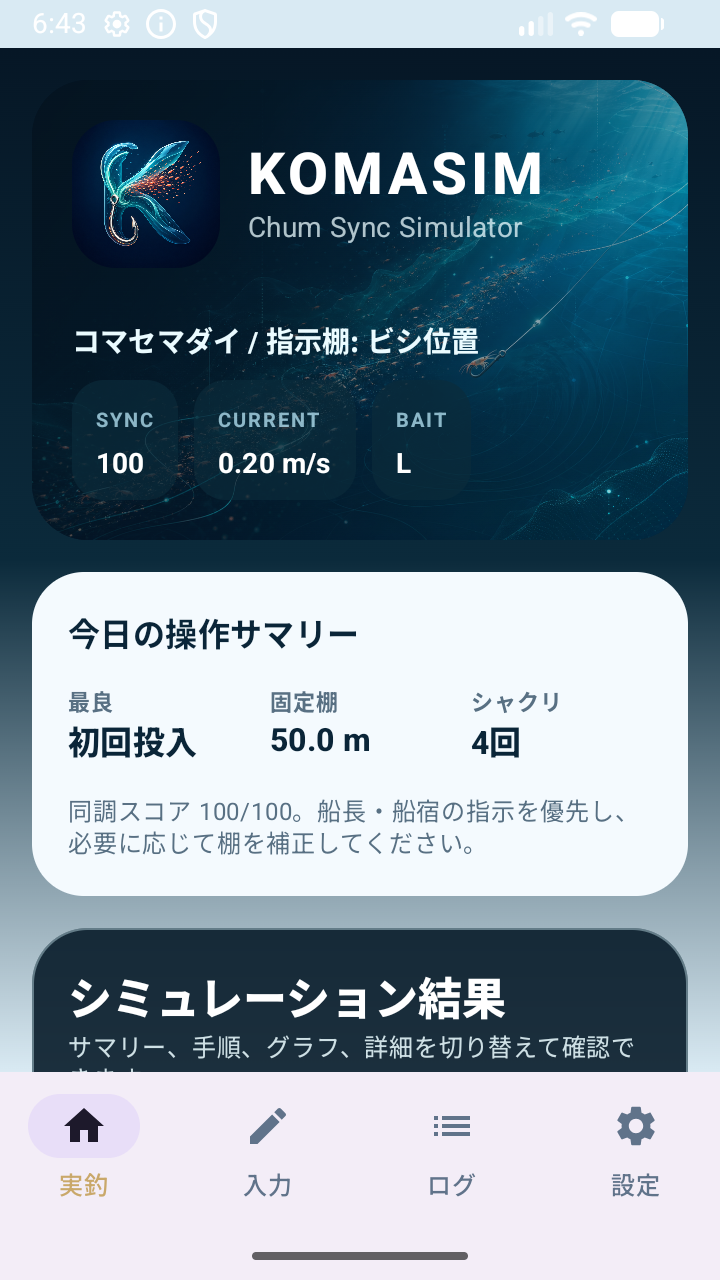
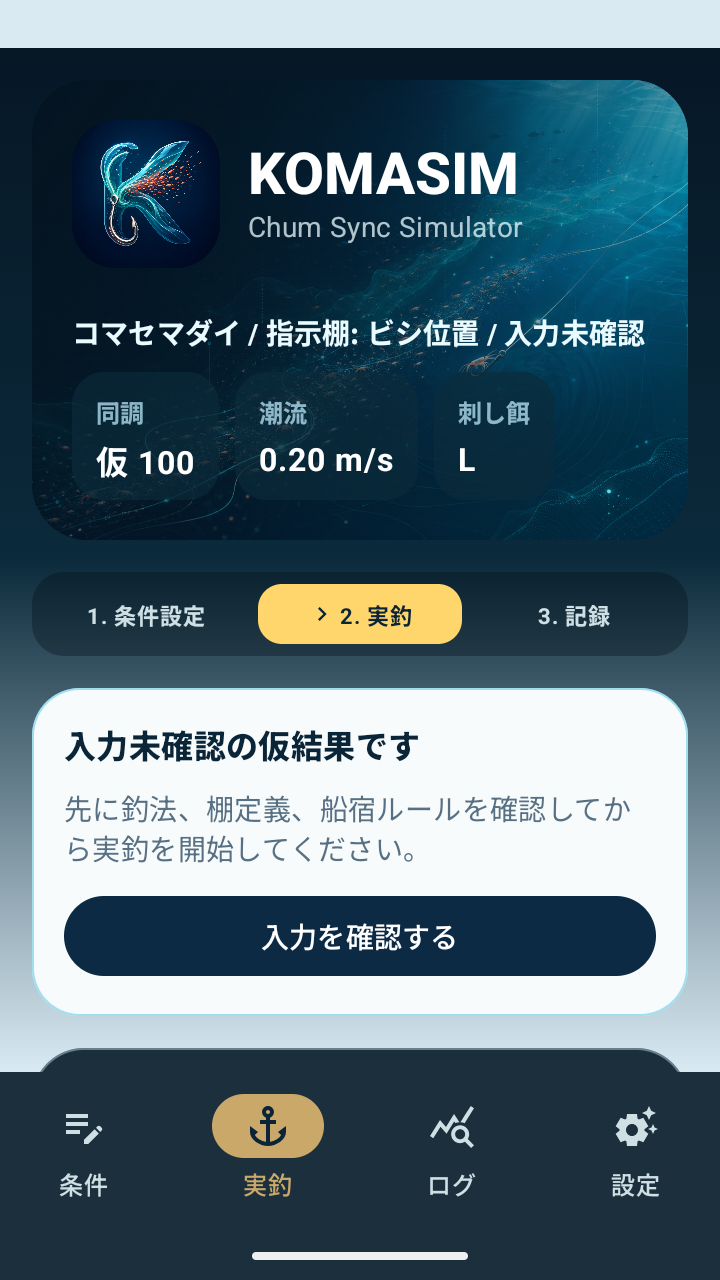
Update KomaSim web page for latest UI
Refresh the KomaSim GitHub Pages content with latest app screenshots, a four-screen overview image, and more detailed UI/input explanations.

diff --git a/privacy_policy.html b/privacy_policy.html
@@ -11,13 +11,13 @@
     <meta property="og:description" content="コマセと付け餌の同調を見える化し、船上で次の一投を考えるためのシミュレーター。">
     <meta property="og:type" content="website">
     <meta property="og:url" content="https://tws19820925.github.io/KOMASimulator/privacy_policy.html">
-    <meta property="og:image" content="https://tws19820925.github.io/KOMASimulator/assets/promo/komasim-hero-background.png">
-    <meta property="og:image:width" content="1600">
-    <meta property="og:image:height" content="900">
-    <meta property="og:image:alt" content="KomaSimの海中ヒーロー画像。コマセと仕掛けの流れを想起させるビジュアル。">
+    <meta property="og:image" content="https://tws19820925.github.io/KOMASimulator/assets/promo/komasim-overview-1200x630.png">
+    <meta property="og:image:width" content="1200">
+    <meta property="og:image:height" content="630">
+    <meta property="og:image:alt" content="KomaSimの全体イメージ。条件設定、実釣、ログ、設定の4画面を並べて表示。">
     <meta property="og:locale" content="ja_JP">
     <meta name="twitter:card" content="summary_large_image">
-    <meta name="twitter:image" content="https://tws19820925.github.io/KOMASimulator/assets/promo/komasim-hero-background.png">
+    <meta name="twitter:image" content="https://tws19820925.github.io/KOMASimulator/assets/promo/komasim-overview-1200x630.png">
     <meta name="theme-color" content="#0b5267">
     <link rel="icon" href="assets/promo/komasim-logo-mark.png">
     <link rel="apple-touch-icon" href="assets/promo/komasim-logo-mark.png">
@@ -30,7 +30,7 @@
       "applicationCategory": "SportsApplication",
       "operatingSystem": "Android",
       "description": "ビシ釣りのコマセ、付け餌、仕掛けの沈下と横流れをシミュレーションし、次の一投を考えるためのAndroidアプリ。",
-      "image": "https://tws19820925.github.io/KOMASimulator/assets/promo/komasim-hero-background.png",
+      "image": "https://tws19820925.github.io/KOMASimulator/assets/promo/komasim-overview-1200x630.png",
       "url": "https://tws19820925.github.io/KOMASimulator/privacy_policy.html",
       "author": {
         "@type": "Organization",
@@ -184,7 +184,7 @@
             align-items: end;
             background:
                 linear-gradient(90deg, rgba(5, 24, 39, 0.88) 0%, rgba(5, 24, 39, 0.74) 43%, rgba(5, 24, 39, 0.30) 100%),
-                url("assets/promo/komasim-hero-background.png") center / cover no-repeat;
+                url("assets/promo/komasim-overview-1200x630.png") center / cover no-repeat;
             color: #ffffff;
         }
 
@@ -310,8 +310,22 @@
             font-size: 16px;
         }
 
+        .overview-panel {
+            margin-top: 28px;
+            border: 1px solid var(--line);
+            border-radius: 8px;
+            background: #ffffff;
+            box-shadow: var(--shadow);
+            overflow: hidden;
+        }
+
+        .overview-panel img {
+            width: 100%;
+        }
+
         .feature-grid,
-        .usecase-grid {
+        .usecase-grid,
+        .input-grid {
             display: grid;
             grid-template-columns: repeat(3, minmax(0, 1fr));
             gap: 14px;
@@ -319,6 +333,7 @@
 
         .feature-card,
         .usecase-card,
+        .input-card,
         .screen-card,
         .policy-block {
             border: 1px solid var(--line);
@@ -328,7 +343,8 @@
         }
 
         .feature-card,
-        .usecase-card {
+        .usecase-card,
+        .input-card {
             padding: 18px;
         }
 
@@ -346,14 +362,17 @@
         }
 
         .feature-card h3,
-        .usecase-card h3 {
+        .usecase-card h3,
+        .input-card h3 {
             margin: 0 0 8px;
             font-size: 19px;
             line-height: 1.45;
         }
 
         .feature-card p,
-        .usecase-card p {
+        .usecase-card p,
+        .input-card p,
+        .input-card li {
             color: var(--muted);
             font-size: 15px;
         }
@@ -526,6 +545,7 @@
 
             .trust-inner,
             .feature-grid,
+            .input-grid,
             .usecase-grid {
                 grid-template-columns: 1fr;
             }
@@ -583,6 +603,7 @@
         <nav class="nav" aria-label="ページ内ナビゲーション">
             <a href="#features">特徴</a>
             <a href="#screens">画面</a>
+            <a href="#inputs">操作入力</a>
             <a href="#usecases">使い方</a>
             <a href="#faq">FAQ</a>
             <a href="#privacy">プライバシーポリシー</a>
@@ -596,12 +617,13 @@
             <p class="eyebrow">ビシ釣り・コマセワーク判断支援アプリ</p>
             <h1 id="hero-title">KomaSim</h1>
             <p class="hero-lead">
-                コマセ、付け餌、仕掛けの沈下と横流れをシミュレーションし、棚到達の待ち時間、同調スコア、次の一投で確認するポイントを船上で読みやすく整理します。
+                条件設定、実釣、釣果ログ、設定を切り替えながら、コマセ、付け餌、仕掛けの沈下と横流れを船上で読みやすく整理します。
             </p>
             <div class="hero-actions">
                 <a class="button primary" href="#privacy">プライバシーポリシー</a>
                 <a class="button secondary" href="#features">機能を見る</a>
                 <a class="button secondary" href="#screens">画面を見る</a>
+                <a class="button secondary" href="#inputs">入力項目を見る</a>
             </div>
         </div>
     </section>
@@ -620,6 +642,19 @@
                 <strong>共有はユーザー操作</strong>
                 <span>結果共有やバックアップ共有は、ユーザーが選んだ時だけ行います。</span>
             </div>
+        </div>
+    </section>
+
+    <section class="section" aria-labelledby="overview-title">
+        <div class="wrap">
+            <div class="section-head">
+                <p class="section-kicker">Overview</p>
+                <h2 id="overview-title">4つの画面で、次の一投を整える。</h2>
+                <p>条件設定、実釣、ログ、設定を下部ナビで切り替えます。最新UIでは実釣/入力タブのカードが重ならず、船上で必要な判断材料を順に確認できます。</p>
+            </div>
+            <figure class="overview-panel">
+                <img src="assets/promo/komasim-overview-1200x630.png" width="1200" height="630" alt="KomaSimの全体イメージ。条件設定、実釣、ログ、設定の4画面を並べて表示。">
+            </figure>
         </div>
     </section>
 
@@ -669,27 +704,111 @@
         <div class="wrap">
             <div class="section-head">
                 <p class="section-kicker">Screens</p>
-                <h2 id="screens-title">船上で見る画面と、仕掛けを整える画面。</h2>
-                <p>実釣タブでは次アクションとタイマーを優先し、入力タブでは棚・潮・針・校正値を整理して扱います。</p>
+                <h2 id="screens-title">画面ごとの役割を、操作単位で確認。</h2>
+                <p>DRIFIXと同じ粒度で、KomaSimの主要UIを「何を見る画面か」「何を入力・判断するか」に分けて説明します。</p>
             </div>
             <div class="screens-grid">
                 <article class="screen-card">
                     <figure>
-                        <img src="assets/screenshots/field-overview-360dp.png" width="720" height="1280" loading="lazy" alt="KomaSimの実釣画面。操作サマリーとシミュレーション結果が表示されている。">
+                        <img src="assets/screenshots/input-overview-360dp.png" width="720" height="1280" alt="KomaSimの条件設定画面。出船前チェック、ステップ表示、入力条件カードが表示されている。">
                     </figure>
                     <div class="screen-copy">
-                        <h3>実釣タブ</h3>
-                        <p>次の一手、棚、警告、タイマー、クイックログを船上で読みやすい順番に配置しています。</p>
+                        <h3>条件設定</h3>
+                        <p>釣法、棚、船宿ルール、潮流、針、餌、ハリス、現場校正値をまとめて入力します。基本条件を先に出し、詳細条件は必要なときに展開します。</p>
                     </div>
                 </article>
                 <article class="screen-card">
                     <figure>
-                        <img src="assets/screenshots/input-overview-360dp.png" width="720" height="1280" loading="lazy" alt="KomaSimの入力画面。釣法、棚、潮流、プリセット保存が表示されている。">
+                        <img src="assets/screenshots/field-overview-360dp.png" width="720" height="1280" alt="KomaSimの実釣画面。入力未確認の仮結果、今やることカード、次の一手が表示されている。">
                     </figure>
                     <div class="screen-copy">
-                        <h3>入力タブ</h3>
-                        <p>釣法、棚、潮流、針、餌、校正値を設定し、よく使う条件をプリセットとして残せます。</p>
+                        <h3>実釣</h3>
+                        <p>同調スコア、待ち時間、実釣レンジ、次の一手、注意点を確認します。入力未確認時は仮結果として表示し、条件確認へ戻る導線を出します。</p>
                     </div>
+                </article>
+                <article class="screen-card">
+                    <figure>
+                        <img src="assets/screenshots/logs-overview-360dp.png" width="720" height="1280" alt="KomaSimの釣果ログ画面。保存件数と空状態、次アクションが表示されている。">
+                    </figure>
+                    <div class="screen-copy">
+                        <h3>釣果ログ</h3>
+                        <p>当たり有無、餌残り、港/船、投入後時刻、メモを保存し、次回の条件比較に使います。ログがない状態でも次アクションを表示します。</p>
+                    </div>
+                </article>
+                <article class="screen-card">
+                    <figure>
+                        <img src="assets/screenshots/settings-overview-360dp.png" width="720" height="1280" alt="KomaSimの設定画面。アプリ情報、保存データとプライバシー、船宿ルール確認が表示されている。">
+                    </figure>
+                    <div class="screen-copy">
+                        <h3>設定</h3>
+                        <p>アプリバージョン、端末内保存、船上前チェック、バックアップ、校正値管理を確認します。クラウドへ自動送信しない前提もここで確認できます。</p>
+                    </div>
+                </article>
+            </div>
+        </div>
+    </section>
+
+    <section class="section alt" id="inputs" aria-labelledby="inputs-title">
+        <div class="wrap">
+            <div class="section-head">
+                <p class="section-kicker">Operation Inputs</p>
+                <h2 id="inputs-title">操作入力は、船上で触る頻度に合わせて整理。</h2>
+                <p>条件設定は単なるフォームではなく、基本条件、潮流と仕掛け、現場校正、出船前チェック、プリセット、実釣ログ入力に分けています。</p>
+            </div>
+            <div class="input-grid">
+                <article class="input-card">
+                    <h3>基本条件</h3>
+                    <p>最初に釣法と棚の意味を揃えます。</p>
+                    <ul>
+                        <li>コマセマダイ / コマセキハダ・マグロ</li>
+                        <li>ビシ位置、最終棚、落とし込み幅</li>
+                        <li>船長指示をビシ位置として読むか、付け餌位置として読むか</li>
+                    </ul>
+                </article>
+                <article class="input-card">
+                    <h3>潮流と仕掛け</h3>
+                    <p>実釣中に変わりやすい条件を素早く調整します。</p>
+                    <ul>
+                        <li>弱い / 普通 / 速いの潮流プリセット</li>
+                        <li>必要時の潮流数値調整</li>
+                        <li>ハリス長、ハリス太さ、針製品、号数、刺し餌サイズ</li>
+                    </ul>
+                </article>
+                <article class="input-card">
+                    <h3>現場校正</h3>
+                    <p>釣り場で得た実測や感触を次の計算に反映します。</p>
+                    <ul>
+                        <li>針自重、餌重量、コマセ沈降速度</li>
+                        <li>校正値の保存、リセット、個別管理</li>
+                        <li>未校正時の仮結果表示と注意喚起</li>
+                    </ul>
+                </article>
+                <article class="input-card">
+                    <h3>出船前チェック</h3>
+                    <p>船宿ルールや船長指示を優先するための確認欄です。</p>
+                    <ul>
+                        <li>指示棚の意味確認</li>
+                        <li>最大落とし込み、投入開始棚、禁止事項</li>
+                        <li>KomaSim提案より現場指示を優先する前提</li>
+                    </ul>
+                </article>
+                <article class="input-card">
+                    <h3>プリセット</h3>
+                    <p>よく使う条件を保存し、読み込み前に差分を確認できます。</p>
+                    <ul>
+                        <li>現在条件との差分表示</li>
+                        <li>プリセット同士の比較</li>
+                        <li>複製、削除、検索、並び替え</li>
+                    </ul>
+                </article>
+                <article class="input-card">
+                    <h3>実釣ログ入力</h3>
+                    <p>一投ごとの結果を次回の条件比較へつなげます。</p>
+                    <ul>
+                        <li>当たりあり / なし</li>
+                        <li>餌残り、空針、かじられ、取られない</li>
+                        <li>港、船、船長指示、次回メモ、投入後時刻</li>
+                    </ul>
                 </article>
             </div>
         </div>

diff --git a/docs/latest_ui_web_refresh_checklist_2026-04-30.md b/docs/latest_ui_web_refresh_checklist_2026-04-30.md
@@ -1,0 +1,22 @@
+# Latest UI Web Refresh Checklist - 2026-04-30
+
+## Scope
+
+- [x] KomaSimアプリ最新UIのスクリーンショットをWeb掲載用画像へ差し替える。
+- [x] TOP/OGP画像を、アプリ全体イメージが伝わる4画面構成の画像へ更新する。
+- [x] Webページ本文に、DRIFIXリポジトリ相当の粒度でUIごとの説明を追加する。
+- [x] 操作入力画面の説明を、基本条件、潮流と仕掛け、現場校正、出船前チェック、プリセット、実釣ログ入力に分けて整理する。
+- [x] READMEに、今回の画像差し替えと掲載内容を追記する。
+
+## Verification
+
+- [x] `privacy_policy.html` の画像参照が実ファイルと一致していることを確認する。
+- [x] 画像差し替え後も外部スクリプト、外部フォント、広告タグ、アクセス解析タグを追加していないことを確認する。
+- [x] ローカル表示確認で、画面カードと入力説明カードが重ならないことを確認する。
+- [x] 静的サイト検証スクリプトを通過させる。
+
+## PR Handling
+
+- [x] `codex/update-komasimulator-latest-web` ブランチで変更する。
+- [x] PR作成時に本チェックリストを参照する。
+- [x] PRスレッドを確認し、コメントがあれば必要な対処を行う。
